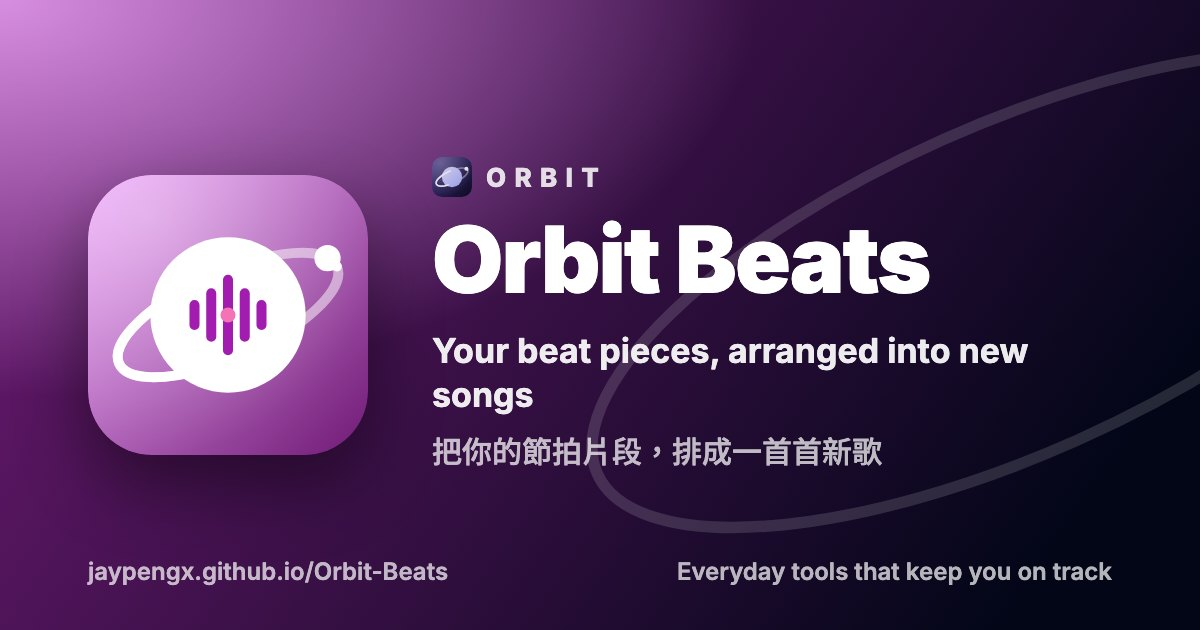
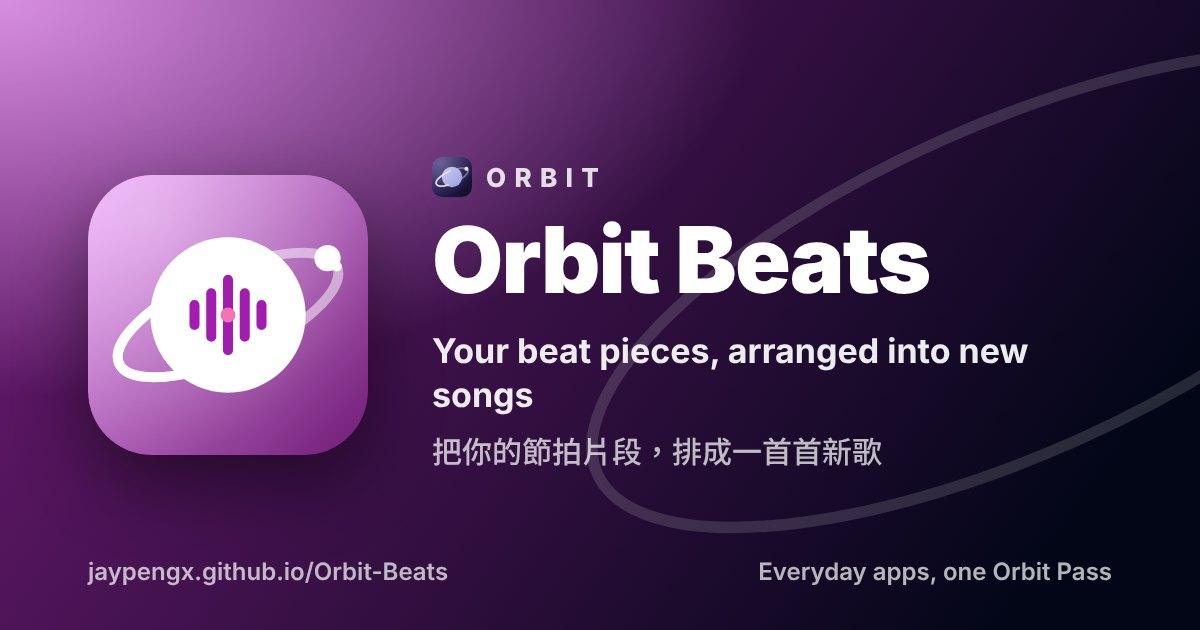
Quadra is now Orbit: Orbit Pass, Orbit Securities, one family; kit orbit.mjs/orbit.css, ORBIT_KIT, orbit.* keys
Claude-Session: https://claude.ai/code/session_017Z8MjamomJpVEaRoiMWmHA

diff --git a/public/index.html b/public/index.html
@@ -44,14 +44,14 @@
 <link rel="manifest" href="./manifest.webmanifest">
 <!-- kit:head: where the app's stylesheets end, before any module. The kit
      comes from one place for every app (Shared-Proxy's GitHub Pages, same
-     site as the apps), each file at the hash this device last saw (quadra.kit
-     and quadra.kitFiles, noted from the kit's version.json by boot.js and
-     quadra.mjs kitLatest; on a first visit the hashes the app's deploy
+     site as the apps), each file at the hash this device last saw (orbit.kit
+     and orbit.kitFiles, noted from the kit's version.json by boot.js and
+     orbit.mjs kitLatest; on a first visit the hashes the app's deploy
      baked in, the `null` at the end), so a change to the kit is one push
      to Shared-Proxy and a phone downloads only the files it changed. A kit
      file newer than the app's deploy (not in its list) is mapped from those
      hashes too, never left at a bare address the browser keeps 10 minutes. -->
-<script>!function(b,d,v,h,n,m,f,i,u){try{v=localStorage.getItem('quadra.kit')||'';h=JSON.parse(localStorage.getItem('quadra.kitFiles')||'null')}catch(e){v=''}n=!!v;if(!n&&d){v=d.version;h=d}h=h&&h.version===v?h.files:null;u=function(x){var k=h&&h[x];return b+x+(k?'?v='+k:v?'?v='+encodeURIComponent(v):'')};m={'#kit/':b};f=['brand.mjs','catalog.mjs','devconfig.mjs','f1live.mjs','format.mjs','gov.mjs','help.mjs','holidays.mjs','lang.mjs','loan.mjs','logos.mjs','mirror.mjs','names.mjs','pass-sync.mjs','pass.mjs','photo-urls.mjs','photos.mjs','play-alive.mjs','play-bets.mjs','play-board.mjs','play-boardfile.mjs','play-cashout.mjs','play-house.mjs','play-kambi.mjs','play-lines.mjs','play-live.mjs','play-lottery.mjs','play-markets.mjs','play-odds.mjs','play-offers.mjs','play-players.mjs','play-propmodel.mjs','play-props.mjs','play-recommend.mjs','play-rules.mjs','play-schedules.mjs','play-scratch.mjs','play-sources.mjs','play-teams.mjs','plus.mjs','postseason.mjs','quadra.mjs','settle.mjs','sports-broadcast.mjs','sports-espn.mjs','sports-highlights.mjs','sports-winprob.mjs','stock-account.mjs','stock-bonds.mjs','stock-codec.mjs','stock-credit.mjs','stock-hk-lots.mjs','stock-holidays.mjs','stock-ipo.mjs','stock-jp-lists.mjs','stock-markets.mjs','stock-quotes.mjs','stock-savings.mjs','truth.mjs','ui.mjs'];for(i=0;i<f.length;i++)m['#kit/'+f[i]]=u(f[i]);if(h)for(i in h)/\.mjs$/.test(i)&&(m['#kit/'+i]=u(i));window.QUADRA_KIT={base:b,version:v,noted:n,url:u};document.write('<script type="import'+'map">'+JSON.stringify({imports:m})+'<\/script><link rel="stylesheet" href="'+u('quadra.css')+'"><link rel="modulepreload" href="'+u('quadra.mjs')+'"><link rel="modulepreload" href="'+u('brand.mjs')+'">')}('../Shared-Proxy/kit/',null)</script>
+<script>!function(b,d,v,h,n,m,f,i,u){try{v=localStorage.getItem('orbit.kit')||'';h=JSON.parse(localStorage.getItem('orbit.kitFiles')||'null')}catch(e){v=''}n=!!v;if(!n&&d){v=d.version;h=d}h=h&&h.version===v?h.files:null;u=function(x){var k=h&&h[x];return b+x+(k?'?v='+k:v?'?v='+encodeURIComponent(v):'')};m={'#kit/':b};f=['brand.mjs','catalog.mjs','dayoff.mjs','devconfig.mjs','f1live.mjs','format.mjs','gov.mjs','help.mjs','holidays.mjs','lang.mjs','loan.mjs','logos.mjs','mirror.mjs','names.mjs','orbit.mjs','pass-sync.mjs','pass.mjs','photo-urls.mjs','photos.mjs','play-alive.mjs','play-bets.mjs','play-board.mjs','play-boardfile.mjs','play-house.mjs','play-kambi.mjs','play-lines.mjs','play-live.mjs','play-lottery.mjs','play-markets.mjs','play-odds.mjs','play-offers.mjs','play-players.mjs','play-props.mjs','play-recommend.mjs','play-rules.mjs','play-schedules.mjs','play-scratch.mjs','play-sources.mjs','play-teams.mjs','postseason.mjs','settle.mjs','sports-broadcast.mjs','sports-espn.mjs','sports-highlights.mjs','sports-winprob.mjs','stock-account.mjs','stock-bonds.mjs','stock-codec.mjs','stock-credit.mjs','stock-hk-lots.mjs','stock-holidays.mjs','stock-ipo.mjs','stock-jp-lists.mjs','stock-markets.mjs','stock-quotes.mjs','stock-savings.mjs','ui.mjs'];for(i=0;i<f.length;i++)m['#kit/'+f[i]]=u(f[i]);if(h)for(i in h)/\.mjs$/.test(i)&&(m['#kit/'+i]=u(i));window.ORBIT_KIT={base:b,version:v,noted:n,url:u};document.write('<script type="import'+'map">'+JSON.stringify({imports:m})+'<\/script><link rel="stylesheet" href="'+u('orbit.css')+'"><link rel="modulepreload" href="'+u('orbit.mjs')+'"><link rel="modulepreload" href="'+u('brand.mjs')+'">')}('../Shared-Proxy/kit/',null)</script>
 <!-- /kit:head -->
 <link rel="modulepreload" href="./app.js">
 <link rel="modulepreload" href="./engine.mjs">
@@ -63,7 +63,7 @@
 <link rel="modulepreload" href="./lib/studio.mjs">
 <style>
 :root {
-  /* The family's kit (Shared-Proxy kit/quadra.css): iOS 27's colours, light
+  /* The family's kit (Shared-Proxy kit/orbit.css): iOS 27's colours, light
      and dark, its springs and corners; this page's names for them. */
   --bg: var(--q-page); --card: var(--q-surface); --fill: var(--q-fill-3); --fill-2: var(--q-fill-1); --line: var(--q-sep);
   --text: var(--q-label); --text-2: var(--q-label-2); --text-3: var(--q-label-3);
@@ -1084,7 +1084,7 @@ body.own-sound main, body.own-sound.playing main { padding-bottom: calc(112px + 
 <body>
 <div id="loading" data-title="Orbit Beats"></div>
 <!-- kit:boot: right after <div id="loading">. -->
-<script>document.write('<script src="'+QUADRA_KIT.url('boot.js')+'"><\/script>')</script>
+<script>document.write('<script src="'+ORBIT_KIT.url('boot.js')+'"><\/script>')</script>
 <!-- /kit:boot -->
 <header class="q-appbar">
   <div class="q-appbar-inner">

diff --git a/public/app.js b/public/app.js
@@ -6,11 +6,11 @@
 // pieces as pads, played live and kept as a song, lib/jamview.mjs) and 資料庫
 // (the songs kept, on this phone). An Orbit app: the kit draws the loading
 // screen, the bar and the tab bar, keeps the app current and opening
-// offline; the Quadra Pass keeps the settings, each kit's tempo and roles
+// offline; the Orbit Pass keeps the settings, each kit's tempo and roles
 // and the styles you keep (your taste); the sound never leaves the phone.
 import { banksFor } from './lib/sampleload.mjs';
-import { quadraSession, topActions, installGate, watchUpdates, keepOffline, tabBar, ask } from '#kit/quadra.mjs';
-import * as kit from '#kit/quadra.mjs';
+import { orbitSession, topActions, installGate, watchUpdates, keepOffline, tabBar, ask } from '#kit/orbit.mjs';
+import * as kit from '#kit/orbit.mjs';
 import { h, sheet, menu, toast, toggle, empty } from './lib/ui.mjs';
 import * as ui from './lib/ui.mjs';
 import { sectionTimes, sectionIndex, labelFits } from './lib/sections.mjs';
@@ -37,7 +37,7 @@ import { mountRadio } from './lib/radioview.mjs';
 import { mountGame } from './lib/gameview.mjs';
 import { recordsOf } from './lib/game.mjs';
 import { TERM_ORDER, TOUR, EXAMPLES, term, info } from './lib/help.mjs';
-import * as kitQ from '#kit/quadra.mjs';
+import * as kitQ from '#kit/orbit.mjs';
 import { icon, inner } from './lib/icons.mjs';
 import { createPlayer, coverOfTrack } from './lib/player.mjs';
 import { mountPlayerView, subOf, onLong, speedText } from './lib/playerview.mjs';
@@ -107,7 +107,7 @@ if (en) {
   for (const n of document.querySelectorAll('[data-en-placeholder]')) n.placeholder = n.dataset.enPlaceholder;
 }
 
-const q = quadraSession('beats', { lang });
+const q = orbitSession('beats', { lang });
 // 簡單 / 進階: one stylesheet rule per control only one of them shows (lib/easy.mjs).
 document.head.append(h('style', { text: levelCss() }));
 
@@ -2273,7 +2273,7 @@ function explain(id) {
     body: h('div', { class: 'card sheet-card' }, [h('p', { class: 'term-text', text: t.text }), listen])
   });
 }
-// The ? at the top: the four screens as cards (tap one to go, ▶ to try it), the words, and the full guide (the kit's, in the Quadra Pass sheet).
+// The ? at the top: the four screens as cards (tap one to go, ▶ to try it), the words, and the full guide (the kit's, in the Orbit Pass sheet).
 // ▶ starts what the screen does: 聽's radio, 即興's pads, 樂器's beat, 做歌's batch.
 function tourPlay(id) {
   if (id === 'home') return (showTab('home'), P?.radioPlay());

diff --git a/public/sw.js b/public/sw.js
@@ -14,7 +14,7 @@ async function samples(request) {
   if (response.status === 200) await cache.put(request, response.clone()).catch(() => {});
   return response;
 }
-self.QUADRA_SW = {
+self.ORBIT_SW = {
   cache: 'beats-app-v2',
   prefix: 'beats-',
   title: 'Orbit Beats',

diff --git a/README.md b/README.md
@@ -3,7 +3,7 @@
 Music that never stops (聽, songs made from nothing on the app's own
 instruments), and your own beat pieces arranged into new songs, each piece
 exactly as recorded. Everything runs on the phone; no sound is uploaded. Signs in
-with the Quadra Pass. `passion_beats.py` is the same engine on the command
+with the Orbit Pass. `passion_beats.py` is the same engine on the command
 line.
 
 Live: https://jaypengx.github.io/Orbit-Beats/ (was Passion Beats)
@@ -24,7 +24,7 @@ Live: https://jaypengx.github.io/Orbit-Beats/ (was Passion Beats)
   chords, key, sections, chain, stems, MIDI, velocity, steps, choke, snap…) in
   everyday words, zh and en; a ⓘ beside a control opens one, eight with
   ▶ the same bar without it and with it. The ? sheet is the four screens as rows (聽 即興 樂器 做歌: tap one to go there, ▶ to try it; `TOUR` in `lib/help.mjs`), then rows for the words and
-  opens the full guide (the kit's `help.mjs`, in the Quadra Pass sheet).
+  opens the full guide (the kit's `help.mjs`, in the Orbit Pass sheet).
 - **Tabs:**
   - **聽** (Listen, the first screen; `lib/radio.mjs`, `lib/radioview.mjs`):
     one play button and the moods (隨機, 放鬆, 熱血, 律動, 經典, or one groove).
